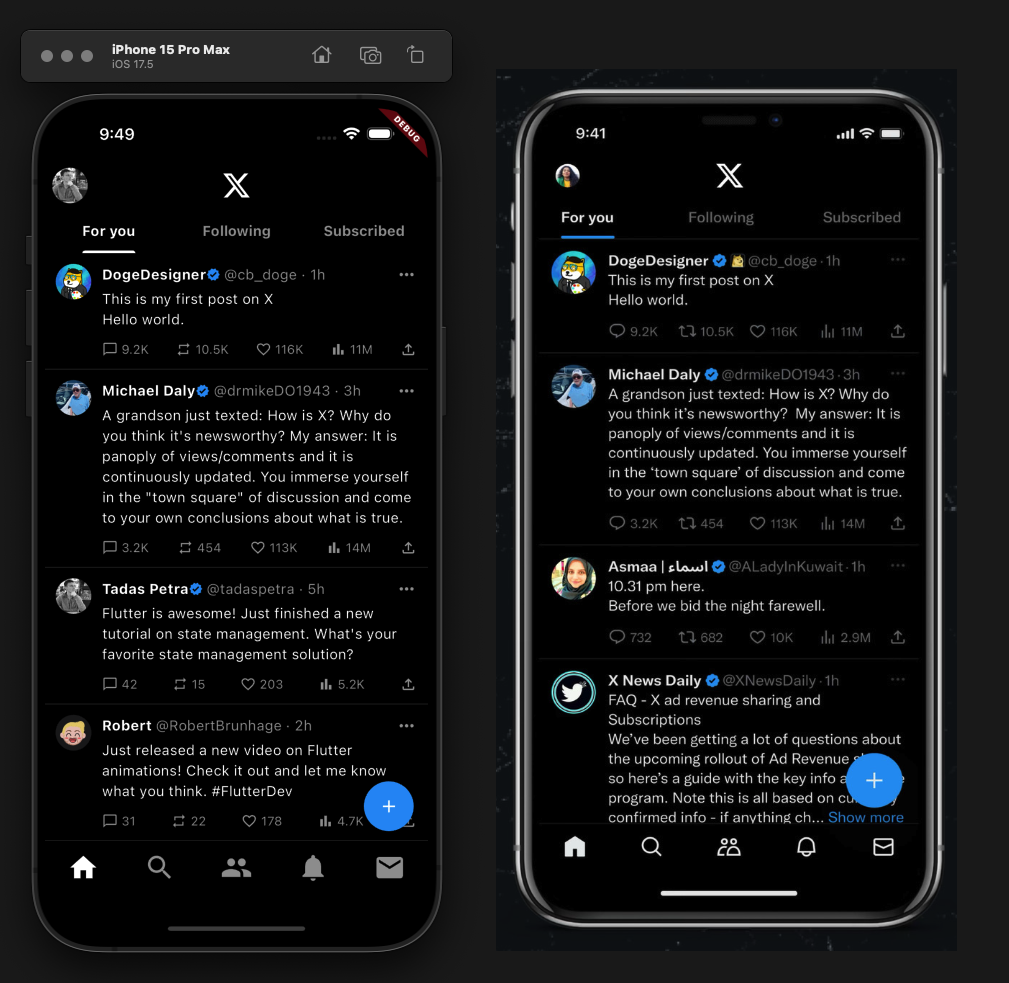
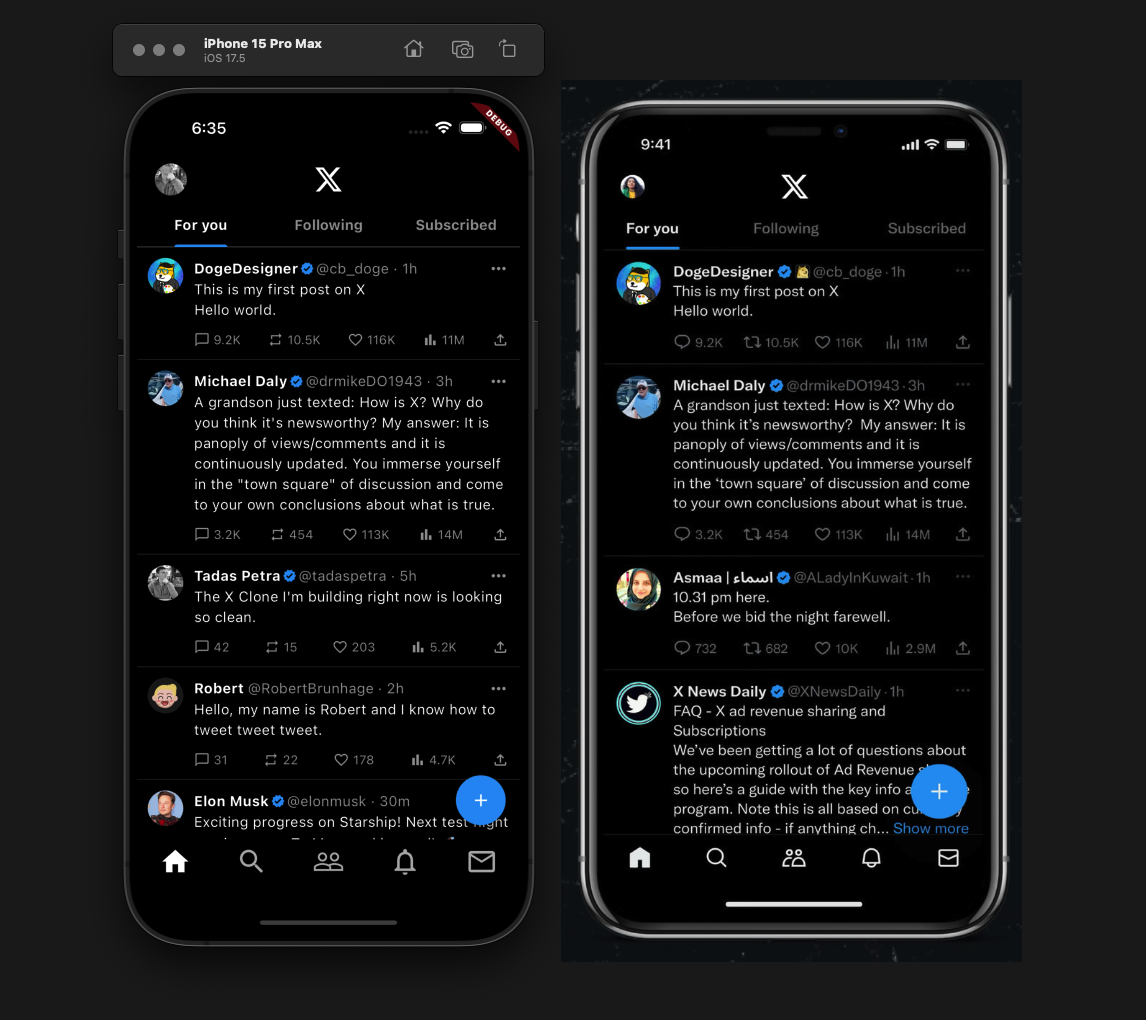
few more tiny improvements

diff --git a/lib/pages/home.dart b/lib/pages/home.dart
@@ -11,11 +11,9 @@ class Home extends StatelessWidget {
       child: Scaffold(
         appBar: AppBar(
           backgroundColor: Colors.black,
-          elevation: 0,
-          leading: const Padding(
-            padding: EdgeInsets.all(8.0),
-            child: CircleAvatar(
-              radius: 15,
+          leading: Container(
+            margin: const EdgeInsets.only(left: 20),
+            child: const CircleAvatar(
               backgroundImage: NetworkImage(
                 "https://pbs.twimg.com/profile_images/1799810491470028801/7hTyg0NP_400x400.jpg",
               ),
@@ -29,7 +27,9 @@ class Home extends StatelessWidget {
             labelColor: Colors.white,
             labelStyle: TextStyle(fontSize: 16, fontWeight: FontWeight.bold),
             unselectedLabelColor: Colors.grey,
-            dividerHeight: 0,
+            dividerHeight: 0.5,
+            dividerColor: Colors.grey,
+            indicatorColor: Colors.blue,
             tabs: [
               Tab(text: 'For you'),
               Tab(text: 'Following'),
@@ -47,15 +47,16 @@ class Home extends StatelessWidget {
         bottomNavigationBar: BottomNavigationBar(
           backgroundColor: Colors.black,
           type: BottomNavigationBarType.fixed,
-          iconSize: 36,
           selectedItemColor: Colors.white,
-          unselectedItemColor: Colors.grey,
+          iconSize: 36,
           items: const [
             BottomNavigationBarItem(icon: Icon(Icons.home), label: ''),
             BottomNavigationBarItem(icon: Icon(Icons.search), label: ''),
-            BottomNavigationBarItem(icon: Icon(Icons.people), label: ''),
-            BottomNavigationBarItem(icon: Icon(Icons.notifications), label: ''),
-            BottomNavigationBarItem(icon: Icon(Icons.mail), label: ''),
+            BottomNavigationBarItem(
+                icon: Icon(Icons.people_outline), label: ''),
+            BottomNavigationBarItem(
+                icon: Icon(Icons.notifications_none_outlined), label: ''),
+            BottomNavigationBarItem(icon: Icon(Icons.mail_outline), label: ''),
           ],
         ),
         floatingActionButton: FloatingActionButton(
